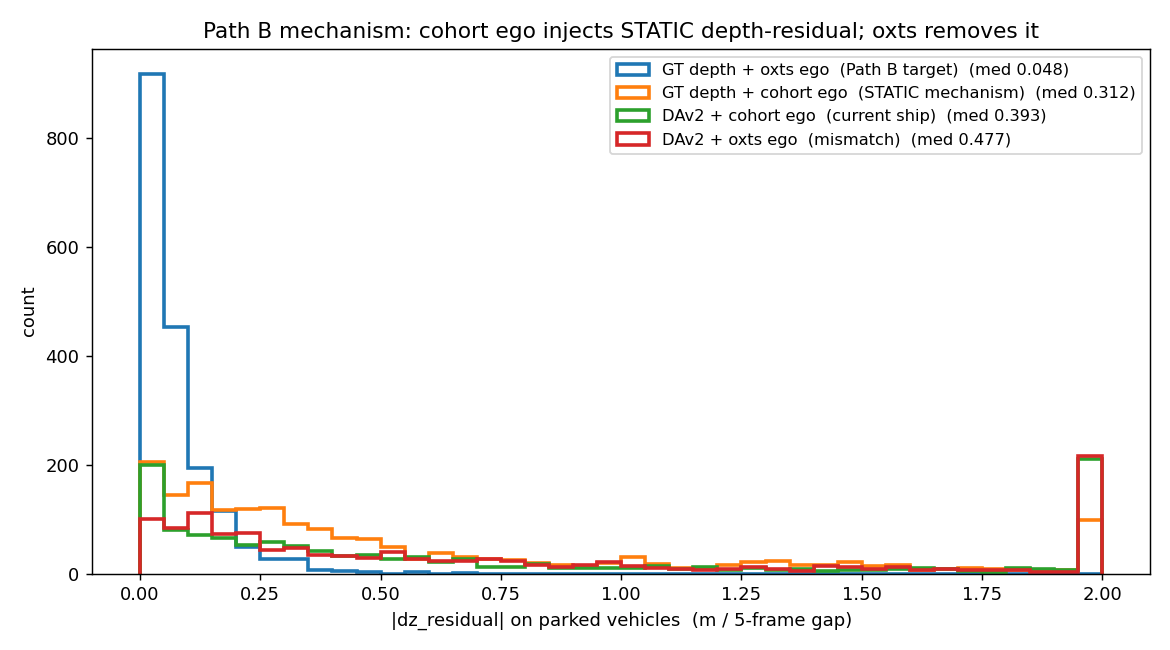
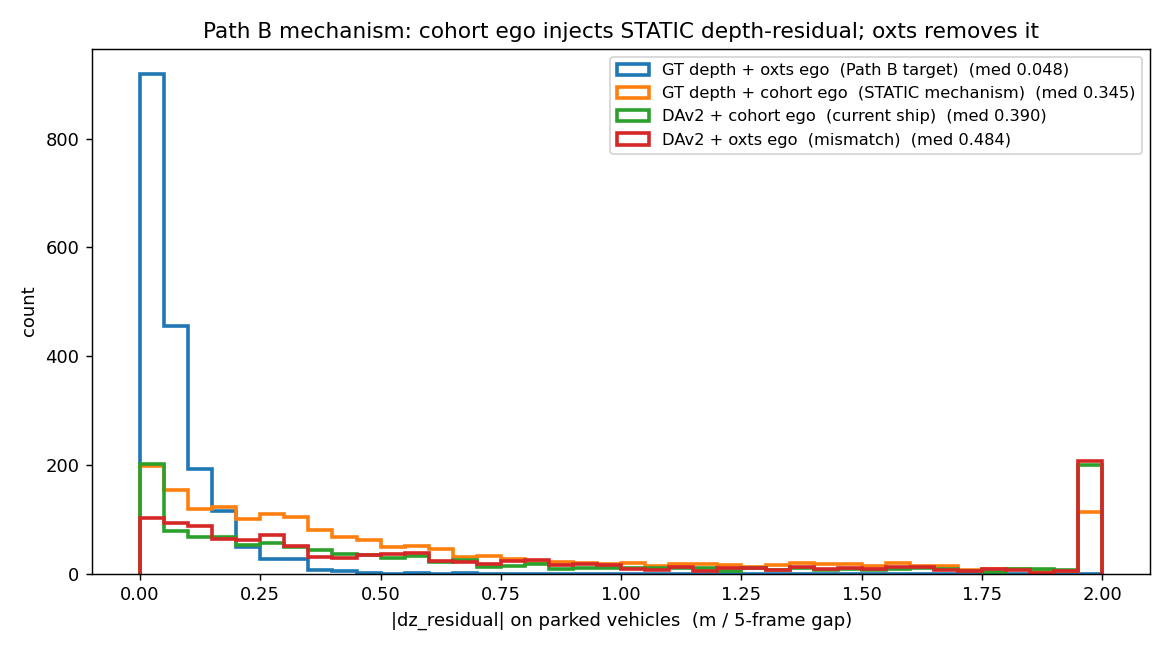
fix(pathB): mechanism off-by-one (1-based cache vs 0-based labels); pre-write depth-half sanity
- Off-by-one: DAv2 cache keyed f1=f0+1 (1-based) but label_02/labels_with_ids/poses are 0-based.
  cohort/DAv2 cells indexed 1 frame off (GT_oxts cell unaffected = pure label_02+oxts). Fixed via
  zdav2(tid,img_i)=cache[i+1] accessor, image-index-consistent. CONFIRMED STRONGER: ratio 6.47->7.14,
  GT_oxts 0.048 (unchanged), GT_cohort 0.312->0.345, DAv2/GT 0.89.
- phase0_depth_half_sanity.py (untested on velodyne, exits clean if absent): LiDAR-vs-DAv2 ratio,
  hole-rate by size+distance, STATIC consistency |dZ_lidar-ego| (aligned vs stale -> tests builder
  box/sensor staleness), LiDAR-vs-label_02 3D-Z cross-check. Pre-committed hole-rate policy baked in
  (<10%/<20% single; 10-30%/20-50% two runs; >30%/>50% pause).

diff --git a/diagnostics/pathB/phase0_depth_half_sanity.py b/diagnostics/pathB/phase0_depth_half_sanity.py
@@ -1,0 +1,175 @@
+"""Path B Phase-0 depth-half sanity: LiDAR per-bbox depth pipeline checks.
+
+Two DISTINCT questions (do not conflate):
+  - PIPELINE CORRECT? (this script) -> static-vehicle consistency, scale, hole rate.
+  - LiDAR vs DAv2 QUALITY? -> already answered by the 2x2 mechanism test; not re-litigated.
+
+Frame convention (matches run_build_depth_cache_lidar.py == DAv2 builder):
+  cache key f1 = f0+1; box from labels file f1; sensor (velodyne/DAv2) from image f0 = f1-1.
+  labels/label_02/poses are 0-based image index; DAv2 cache is 1-based (z = dav2[tid][i+1] for image i).
+
+Measurements (primary):
+  1. LiDAR median Z vs DAv2 Z per gt-bbox: ratio + abs-diff distribution (0005, 0011).
+  2. Hole rate: overall + per bbox-size (small<50px / med / large) + per distance bucket.
+  3. STATIC consistency: world-static vehicles, |dZ_lidar - ego_dz_oxts| (~0 if correct).
+     Computed ALIGNED (velo f, box f) and STALE (velo f, box f+1 = builder quirk) to test if
+     the box/sensor staleness harms LiDAR (sparse) — resolves the alignment fork empirically.
+Secondary: LiDAR median vs label_02 3D-center Z ratio (~10% differential acceptable).
+
+PRE-COMMITTED hole-rate policy applied at end. Untested on velodyne; exits cleanly if absent.
+"""
+import collections
+import json
+import os
+import sys
+
+import numpy as np
+
+HERE = os.path.dirname(__file__)
+sys.path.insert(0, os.path.join(HERE, "..", ".."))
+sys.path.insert(0, os.path.join(HERE, "..", "..", "gmc_link"))
+sys.path.insert(0, HERE)
+import kitti_tracking_gt as K
+from phase0_mechanism_2x2 import load_label02, load_lwids_boxes, load_dav2, world_static_ids
+
+OUT = os.path.join(HERE, "..", "results", "pathB")
+SEQS = ["0005", "0011"]
+MIN_PTS = 1
+SMALL_H, MED_H = 50.0, 100.0          # bbox height px buckets
+DIST = [(0, 15), (15, 35), (35, 1e9)]  # near / mid / far (m)
+
+
+def size_bucket(h):
+    return "small" if h < SMALL_H else ("medium" if h < MED_H else "large")
+
+
+def dist_bucket(z):
+    for lo, hi in DIST:
+        if lo <= z < hi:
+            return f"{lo}-{hi if hi < 1e9 else 'inf'}m"
+    return "na"
+
+
+def hole_policy(overall, small):
+    if overall < 0.10 and small < 0.20:
+        return "(a) leave holes, SINGLE training run"
+    if overall > 0.30 or small > 0.50:
+        return "PAUSE: reconsider Path B feasibility (do NOT full-build; flag user)"
+    return "(a)+(c): TWO runs (leave-holes + LiDAR-covered-only), paper reports both"
+
+
+def main():
+    os.makedirs(OUT, exist_ok=True)
+    # velodyne presence guard
+    missing = [s for s in SEQS if not os.path.isdir(os.path.join(K.TRACKING_ROOT, "velodyne", s))]
+    if missing:
+        print(f"[sanity] velodyne not extracted for {missing} -> "
+              f"expected at {K.TRACKING_ROOT}/velodyne/<seq>/. Exiting (run after extraction).")
+        return
+
+    import cv2
+    ratios, absdiffs = [], []                       # LiDAR vs DAv2
+    lidar_vs_l2 = []                                # LiDAR vs label_02 3D Z
+    consist = {"aligned": [], "stale": []}          # |dZ_lidar - ego|
+    raw_dz = {"aligned": [], "stale": []}           # raw |dZ_lidar| (tracks ego, NOT ~0)
+    holes = collections.Counter(); boxes = collections.Counter()       # by size
+    holes_d = collections.Counter(); boxes_d = collections.Counter()   # by distance
+    n_box_total = n_hole_total = 0
+
+    for seq in SEQS:
+        lw = load_lwids_boxes(seq)                  # image-idx(0-based) -> [(tid, box)]
+        dav2 = load_dav2(seq)
+        l2 = load_label02(seq)
+        poses = K.oxts_to_poses(K.load_oxts(seq)); calib = K.load_calib(seq)
+        static = world_static_ids(l2, poses, calib)
+        frame_dir = f"/home/seanachan/data/Dataset/refer-kitti/KITTI/training/image_02/{seq}"
+        total = len([f for f in os.listdir(frame_dir) if f.endswith((".png", ".jpg"))])
+        slz = collections.defaultdict(dict)         # static aligned lidar Z by image idx
+        slz_stale = collections.defaultdict(dict)
+
+        for f0 in range(total):
+            f1 = f0 + 1
+            try:
+                pts = K.load_velodyne(seq, f0)[:, :3]
+            except FileNotFoundError:
+                continue
+            uv, z = K.project_velo_to_image(pts, calib)
+
+            # (1)+(2) gt-bbox LiDAR vs DAv2 + hole stats — BUILDER convention (box=labels[f1])
+            for tid, box in lw.get(f1, []):
+                h = box[3] - box[1]
+                res = K.bbox_lidar_depth(uv, z, box, MIN_PTS)
+                dav2Z = dav2.get(tid, {}).get(f1)
+                sb = size_bucket(h)
+                boxes[sb] += 1; n_box_total += 1
+                zb = dist_bucket(dav2Z if dav2Z else (res[0] if res else 1e9))
+                boxes_d[zb] += 1
+                if res is None:
+                    holes[sb] += 1; holes_d[zb] += 1; n_hole_total += 1
+                elif dav2Z:
+                    ratios.append(res[0] / dav2Z); absdiffs.append(res[0] - dav2Z)
+
+            # (3)+secondary: static vehicles, aligned + stale sampling
+            for tid in static:
+                if f0 in l2[tid]:
+                    r = K.bbox_lidar_depth(uv, z, l2[tid][f0]["box"], MIN_PTS)
+                    if r:
+                        slz[tid][f0] = r[0]
+                        lidar_vs_l2.append(r[0] / max(l2[tid][f0]["Z"], 1e-3))
+                if (f0 + 1) in l2[tid]:              # stale: next-frame box on this cloud
+                    r2 = K.bbox_lidar_depth(uv, z, l2[tid][f0 + 1]["box"], MIN_PTS)
+                    if r2:
+                        slz_stale[tid][f0] = r2[0]
+
+        # consistency: consecutive aligned/stale dZ vs oxts ego (gap=1)
+        for store, key in ((slz, "aligned"), (slz_stale, "stale")):
+            for tid, zmap in store.items():
+                fs = sorted(zmap)
+                for a, b in zip(fs, fs[1:]):
+                    if b == a + 1:
+                        dz = zmap[b] - zmap[a]
+                        ego = K.ego_dz_camera(poses, calib, b, 1)
+                        consist[key].append(abs(dz - ego)); raw_dz[key].append(abs(dz))
+
+    def st(x):
+        a = np.abs(np.array(x)) if x else np.array([])
+        return None if a.size == 0 else {"n": int(a.size), "median": float(np.median(a)),
+                                         "p25": float(np.percentile(a, 25)),
+                                         "p75": float(np.percentile(a, 75))}
+
+    overall_hole = n_hole_total / max(1, n_box_total)
+    small_hole = holes["small"] / max(1, boxes["small"])
+    report = {
+        "config": {"seqs": SEQS, "min_pts": MIN_PTS},
+        "lidar_vs_dav2_ratio": st(ratios), "lidar_vs_dav2_absdiff_m": st(absdiffs),
+        "lidar_vs_label02_3dZ_ratio": st(lidar_vs_l2),
+        "static_consistency_abs_dz_minus_ego": {k: st(v) for k, v in consist.items()},
+        "static_raw_abs_dz": {k: st(v) for k, v in raw_dz.items()},
+        "hole_rate": {
+            "overall": overall_hole,
+            "by_size": {k: holes[k] / max(1, boxes[k]) for k in boxes},
+            "by_distance": {k: holes_d[k] / max(1, boxes_d[k]) for k in boxes_d},
+            "n_box": n_box_total, "n_hole": n_hole_total},
+        "policy_decision": {"overall_hole": overall_hole, "small_bbox_hole": small_hole,
+                            "policy": hole_policy(overall_hole, small_hole)},
+    }
+    with open(os.path.join(OUT, "depth_half_sanity.json"), "w") as f:
+        json.dump(report, f, indent=2)
+
+    # print summary
+    print(f"hole rate overall {overall_hole:.3f}  small-bbox {small_hole:.3f}")
+    print("by size:", {k: round(v, 3) for k, v in report["hole_rate"]["by_size"].items()})
+    print("by dist:", {k: round(v, 3) for k, v in report["hole_rate"]["by_distance"].items()})
+    r = report["lidar_vs_dav2_ratio"]
+    if r: print(f"LiDAR/DAv2 Z ratio: med {r['median']:.2f} [{r['p25']:.2f},{r['p75']:.2f}]")
+    l = report["lidar_vs_label02_3dZ_ratio"]
+    if l: print(f"LiDAR/label02 Z ratio: med {l['median']:.2f} [{l['p25']:.2f},{l['p75']:.2f}]")
+    for k in ("aligned", "stale"):
+        c = report["static_consistency_abs_dz_minus_ego"][k]
+        if c: print(f"static |dZ_lidar-ego| ({k}): med {c['median']:.3f}  (lower=correct; stale>aligned => staleness harms)")
+    print(f"\nPOLICY: {report['policy_decision']['policy']}")
+    print(f"wrote {OUT}/depth_half_sanity.json")
+
+
+if __name__ == "__main__":
+    main()

diff --git a/diagnostics/pathB/phase0_mechanism_2x2.py b/diagnostics/pathB/phase0_mechanism_2x2.py
@@ -89,13 +89,20 @@ def match_dav2_id(box, lw_frame):
     return best
 
 
+def zdav2(dav2, tid, img_i):
+    """DAv2 Z at 0-based IMAGE index img_i. Cache is keyed 1-based (f1=f0+1)."""
+    return dav2.get(tid, {}).get(img_i + 1)
+
+
 def cohort_dz(dav2, gap):
-    """frame -> median DAv2 dZ over all cache tracks (ship cohort proxy)."""
-    frames = sorted({f for tr in dav2.values() for f in tr})
+    """IMAGE-index (0-based) -> median DAv2 dZ over all cache tracks (ship cohort
+    proxy). Keyed in image index to match label_02/poses (cache is 1-based)."""
+    img_frames = sorted({k - 1 for tr in dav2.values() for k in tr})
     out = {}
-    for t in frames:
-        dz = [dav2[tid][t] - dav2[tid][t - gap]
-              for tid in dav2 if t in dav2[tid] and (t - gap) in dav2[tid]]
+    for t in img_frames:
+        dz = [zdav2(dav2, tid, t) - zdav2(dav2, tid, t - gap)
+              for tid in dav2
+              if zdav2(dav2, tid, t) is not None and zdav2(dav2, tid, t - gap) is not None]
         if len(dz) >= 3:
             out[t] = float(np.median(dz))
     return out
@@ -156,12 +163,13 @@ def main():
                 # DAv2 arm: IoU-match this box at t and t-GAP to a cache track
                 m_t = match_dav2_id(l2[tid][t]["box"], lw.get(t, []))
                 m_p = match_dav2_id(l2[tid][t - GAP]["box"], lw.get(t - GAP, []))
-                if (m_t is not None and m_t == m_p and m_t in dav2
-                        and t in dav2[m_t] and (t - GAP) in dav2[m_t]):
-                    dz_dav2 = dav2[m_t][t] - dav2[m_t][t - GAP]
+                if (m_t is not None and m_t == m_p
+                        and zdav2(dav2, m_t, t) is not None
+                        and zdav2(dav2, m_t, t - GAP) is not None):
+                    dz_dav2 = zdav2(dav2, m_t, t) - zdav2(dav2, m_t, t - GAP)
                     cells["DAv2_oxts"].append(dz_dav2 - ego_oxts)
                     cells["DAv2_cohort"].append(dz_dav2 - ego_cohort)
-                    dav2_vs_gt_Z.append((dav2[m_t][t], l2[tid][t]["Z"]))
+                    dav2_vs_gt_Z.append((zdav2(dav2, m_t, t), l2[tid][t]["Z"]))
 
     report = {"config": {"seqs": SEQS, "gap": GAP, "static_world_speed_mps": STATIC_WORLD_SPEED,
                          "n_static_tracks": n_static_total},
